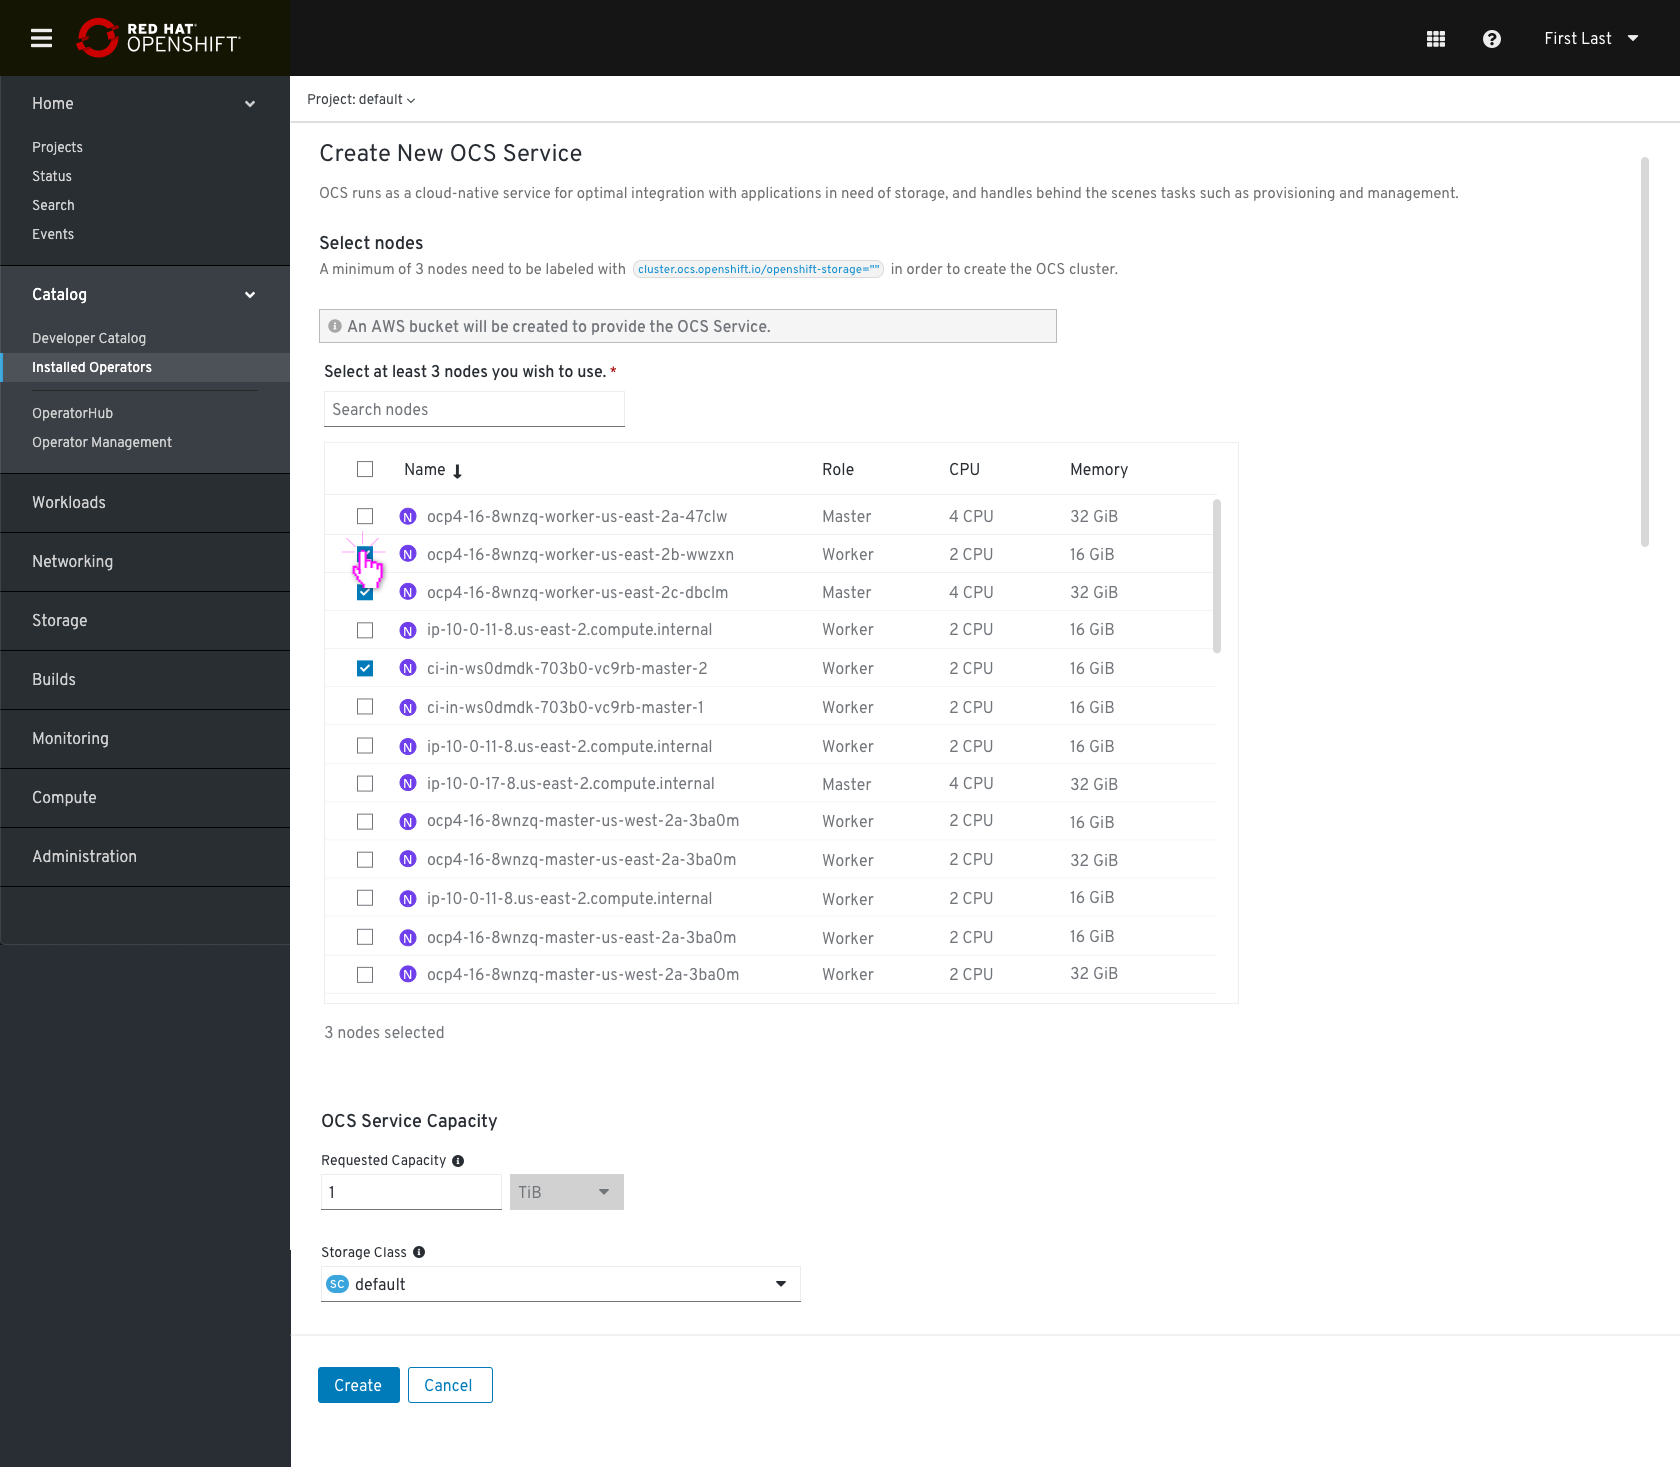
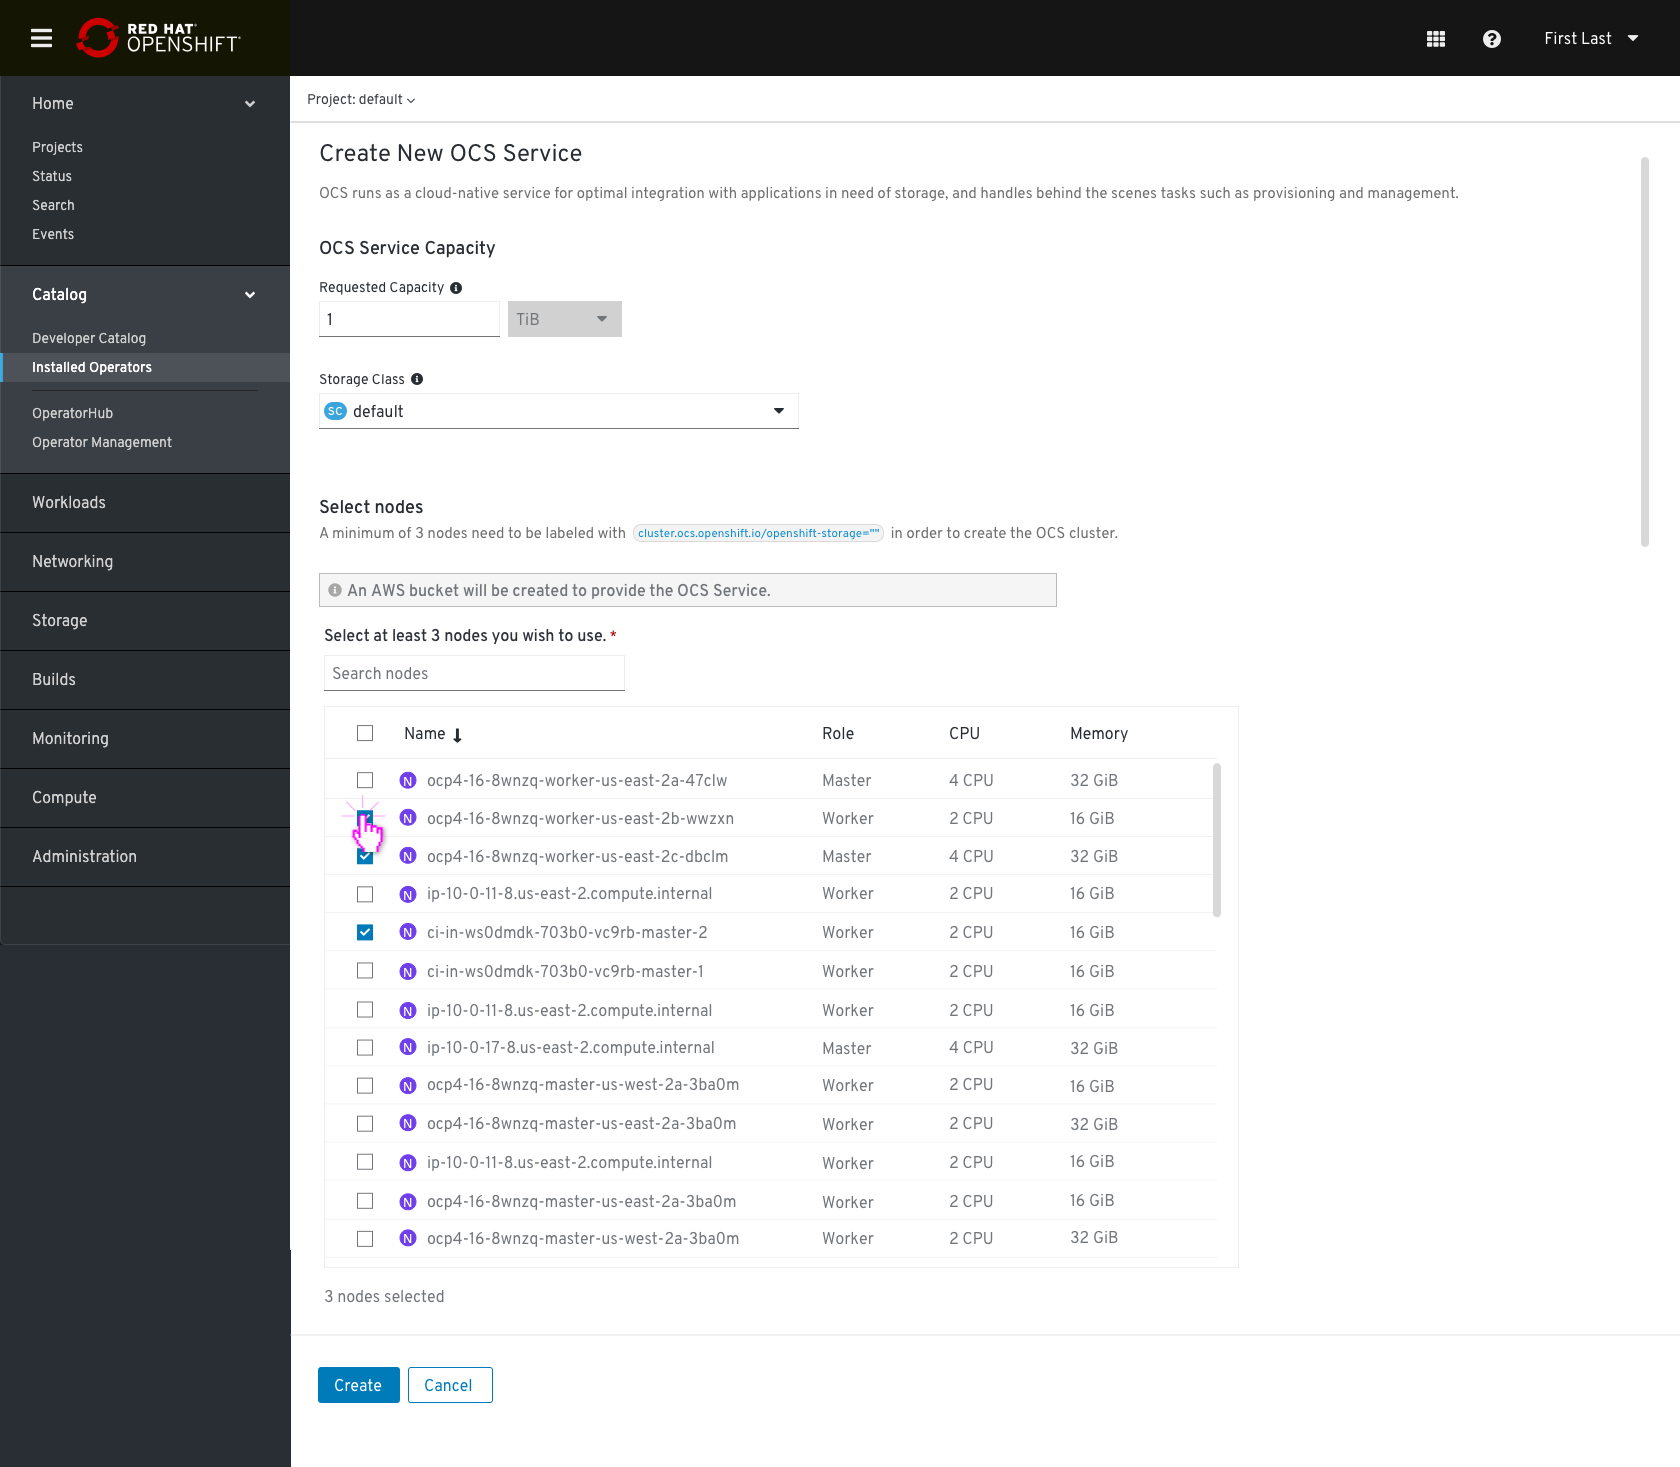
5 OSD per OCS node limitation changes
- Install screens order was switched
- a new 5 OSD per OCS node limitation was added
- some minor changes

diff --git a/web-console/Storage/OCS/OCS _Installation_Workflow.md b/web-console/Storage/OCS/OCS _Installation_Workflow.md
@@ -16,14 +16,10 @@ Installation
 
 ![OperatorHub operators view](img/OCS-Install-step2.png)
 
-After the subscription process, the user will see the subscribed operator page. 
-
-![subscription operators page](img/OCS_Subscription_page.png) 
-
 In the installed operator view the user can see the OCS operator installed. 
-
 ![OperatorHub operators view](img/Installed_operators_list.png)
 
+![subscription operators page](img/OCS_Subscription_page.png) 
 
 # The OCS installation process
 OCS Overview page
@@ -34,24 +30,23 @@ Clicking on "create new" (OCS Service) Will start the following installation flo
 Same flow will be available by clicking on the OCS tab and "Create new" button. 
 
 ### Select Nodes
-Admin needs to select 3 nodes to label with “cluster.ocs.openshift.io/openshift-storage=""” (note label is subject to change as this will be automatically configured by the OCS operator) to be used for the OCS cluster.
+Admin needs to select 3 nodes (depends on the requested capacity input) to label with “cluster.ocs.openshift.io/openshift-storage=""” (note label is subject to change as this will be automatically configured by the OCS operator) to be used for the OCS cluster.
 * Admin may need to filter the list of nodes in order to make the selection (i.e. nodes that contain storage already), e.g.
 Select/unselect all nodes, and exclude master nodes (e.g. based on roles)
     * Non-master nodes of a certain flavor (CPU and memory)
-    * Non-master nodes’ capacity n TiB or greater (e.g. >= 10 TiB)
     * Nodes with a certain name prefix or string within the node name
-Admin will also specify the capacity for the cluster and the storage class to use.
 * Capacity will default to 1 TiB, and user cannot modify value to be less than 1 TiB. Only TiB, PiB, and units above TiB supported. GiB and MiB are not permitted.
+* Number of nodes depends on the requested capacity input.  If requested capacity is > 5 TiB, then Additional nodes must be added.
 * Storage class will default to the default storage class, but user can overwrite the selection.  Note: The storage classes shown will be pre-filtered to the storage classes backed by the infrastructure supported provisioner(s).
 
     * Storage Class “Info tip” -- The Storage Class will be used to request storage from the underlying infrastructure to create the backing persistent volumes that will be used to provide the OpenShift Container Storage (OCS) service.
 
 ![create new](img/Create_new_OCS_00.png)
-
 ![use existing](img/Create_new_OCS_01.png)
 
-In case the user selects a lower number than 1 TiB an error message should appear 
-![use existing](img/Create_new_OCS_01_error.png)
+If the Admin specify for example 6 TiB, 1 more node needs to be selected (in addition to the min 3 selected), thus at least 4 nodes are needed.
+In this case the label "Select at least X nodes you wish to use." and "a minimum of X nodes..." should be changed accordingly.
+![use existing](img/Create_new_OCS_01_Additional_nodes.png)
 
 
 For AWS deployment: A new bucket will be created automatically in AWS S3 connected cloud, in the same region as the OpenShift. 
@@ -61,7 +56,7 @@ This info note should be added in cloud deployment:
 ![Info note](img/info.png)
 The provider name should be modified according to the Cloud Credentials operator.
 
-At any point, Admin can switch to YAML by clicking on the “Edit YAML” link in the top right corner of the second radio button.
+At any point, Admin can switch to YAML by clicking on the “Edit YAML” link in the top right corner.
 After switching to YAML, the Admin cannot switch back to the form entry.
 
 The "Create" button is only enabled once all mandatory fields have been filled with valid input.
